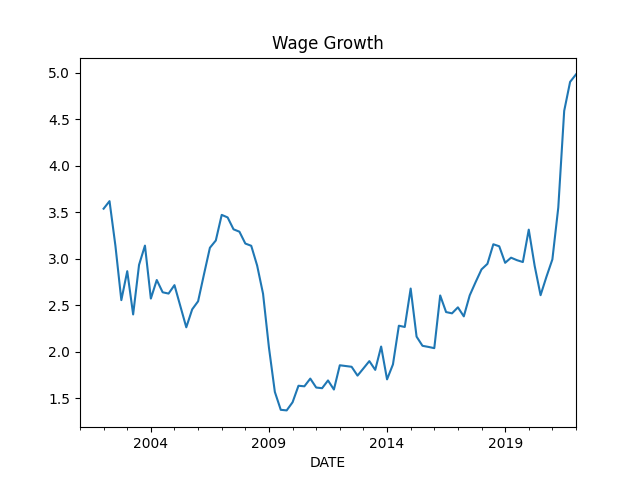
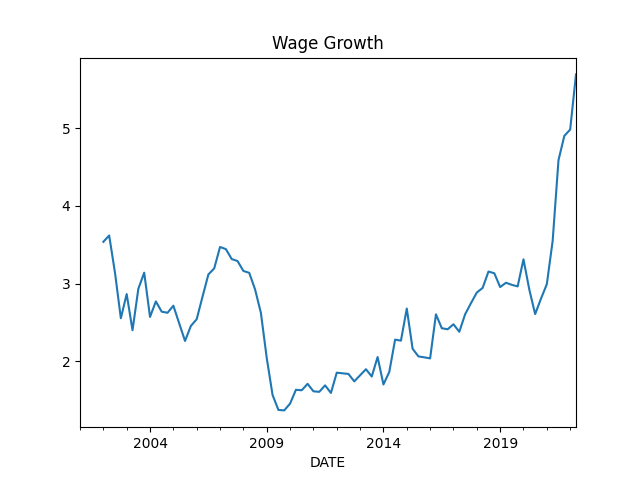
--

diff --git a/en/2019/05/stats.md b/en/2019/05/stats.md
@@ -170,14 +170,7 @@ Name: JTSQUR, dtype: float64
 Wages
 
 ```python
-import pandas as pd, datetime
-from pandas_datareader import data
-
-start=datetime.datetime(1950, 1, 1)
-today = datetime.datetime.now()
-end=datetime.datetime(today.year, today.month, today.day)
-cols = ['ECIWAG']
-df3 = data.DataReader(cols, 'fred', start, end)
+import util; df3 = util.get_fred(1950,['ECIWAG'])
 df3 = df3.dropna()
 df3['ECIWAG2'] = df3.shift(4).ECIWAG
 df3['wagegrowth'] = (df3.ECIWAG-df3.ECIWAG2) / df3.ECIWAG2 * 100.
@@ -188,10 +181,10 @@ plt.savefig('wages.png')
 
 ```text
 DATE
-2021-04-01    3.551136
 2021-07-01    4.590395
 2021-10-01    4.901961
 2022-01-01    4.982699
+2022-04-01    5.692730
 Name: wagegrowth, dtype: float64
 ```
 
@@ -202,14 +195,7 @@ Name: wagegrowth, dtype: float64
 Claims
 
 ```python
-import pandas as pd, datetime
-from pandas_datareader import data
-
-today = datetime.datetime.now()
-start=datetime.datetime(1995, 1, 1)
-end=datetime.datetime(today.year, today.month, today.day)
-cols = ['ICSA']
-df = data.DataReader(cols, 'fred', start, end)
+import util; df = util.get_fred(1995,'ICSA')
 df.ICSA.plot()
 print (df.tail(4))
 plt.title("Initial Unemployment Claims")
@@ -221,10 +207,10 @@ plt.savefig('icsa.png')
 ```text
               ICSA
 DATE              
-2022-05-14  218000
-2022-05-21  211000
-2022-05-28  202000
-2022-06-04  229000
+2022-07-09  244000
+2022-07-16  261000
+2022-07-23  254000
+2022-07-30  260000
 ```
 
 ![](icsa.png)
